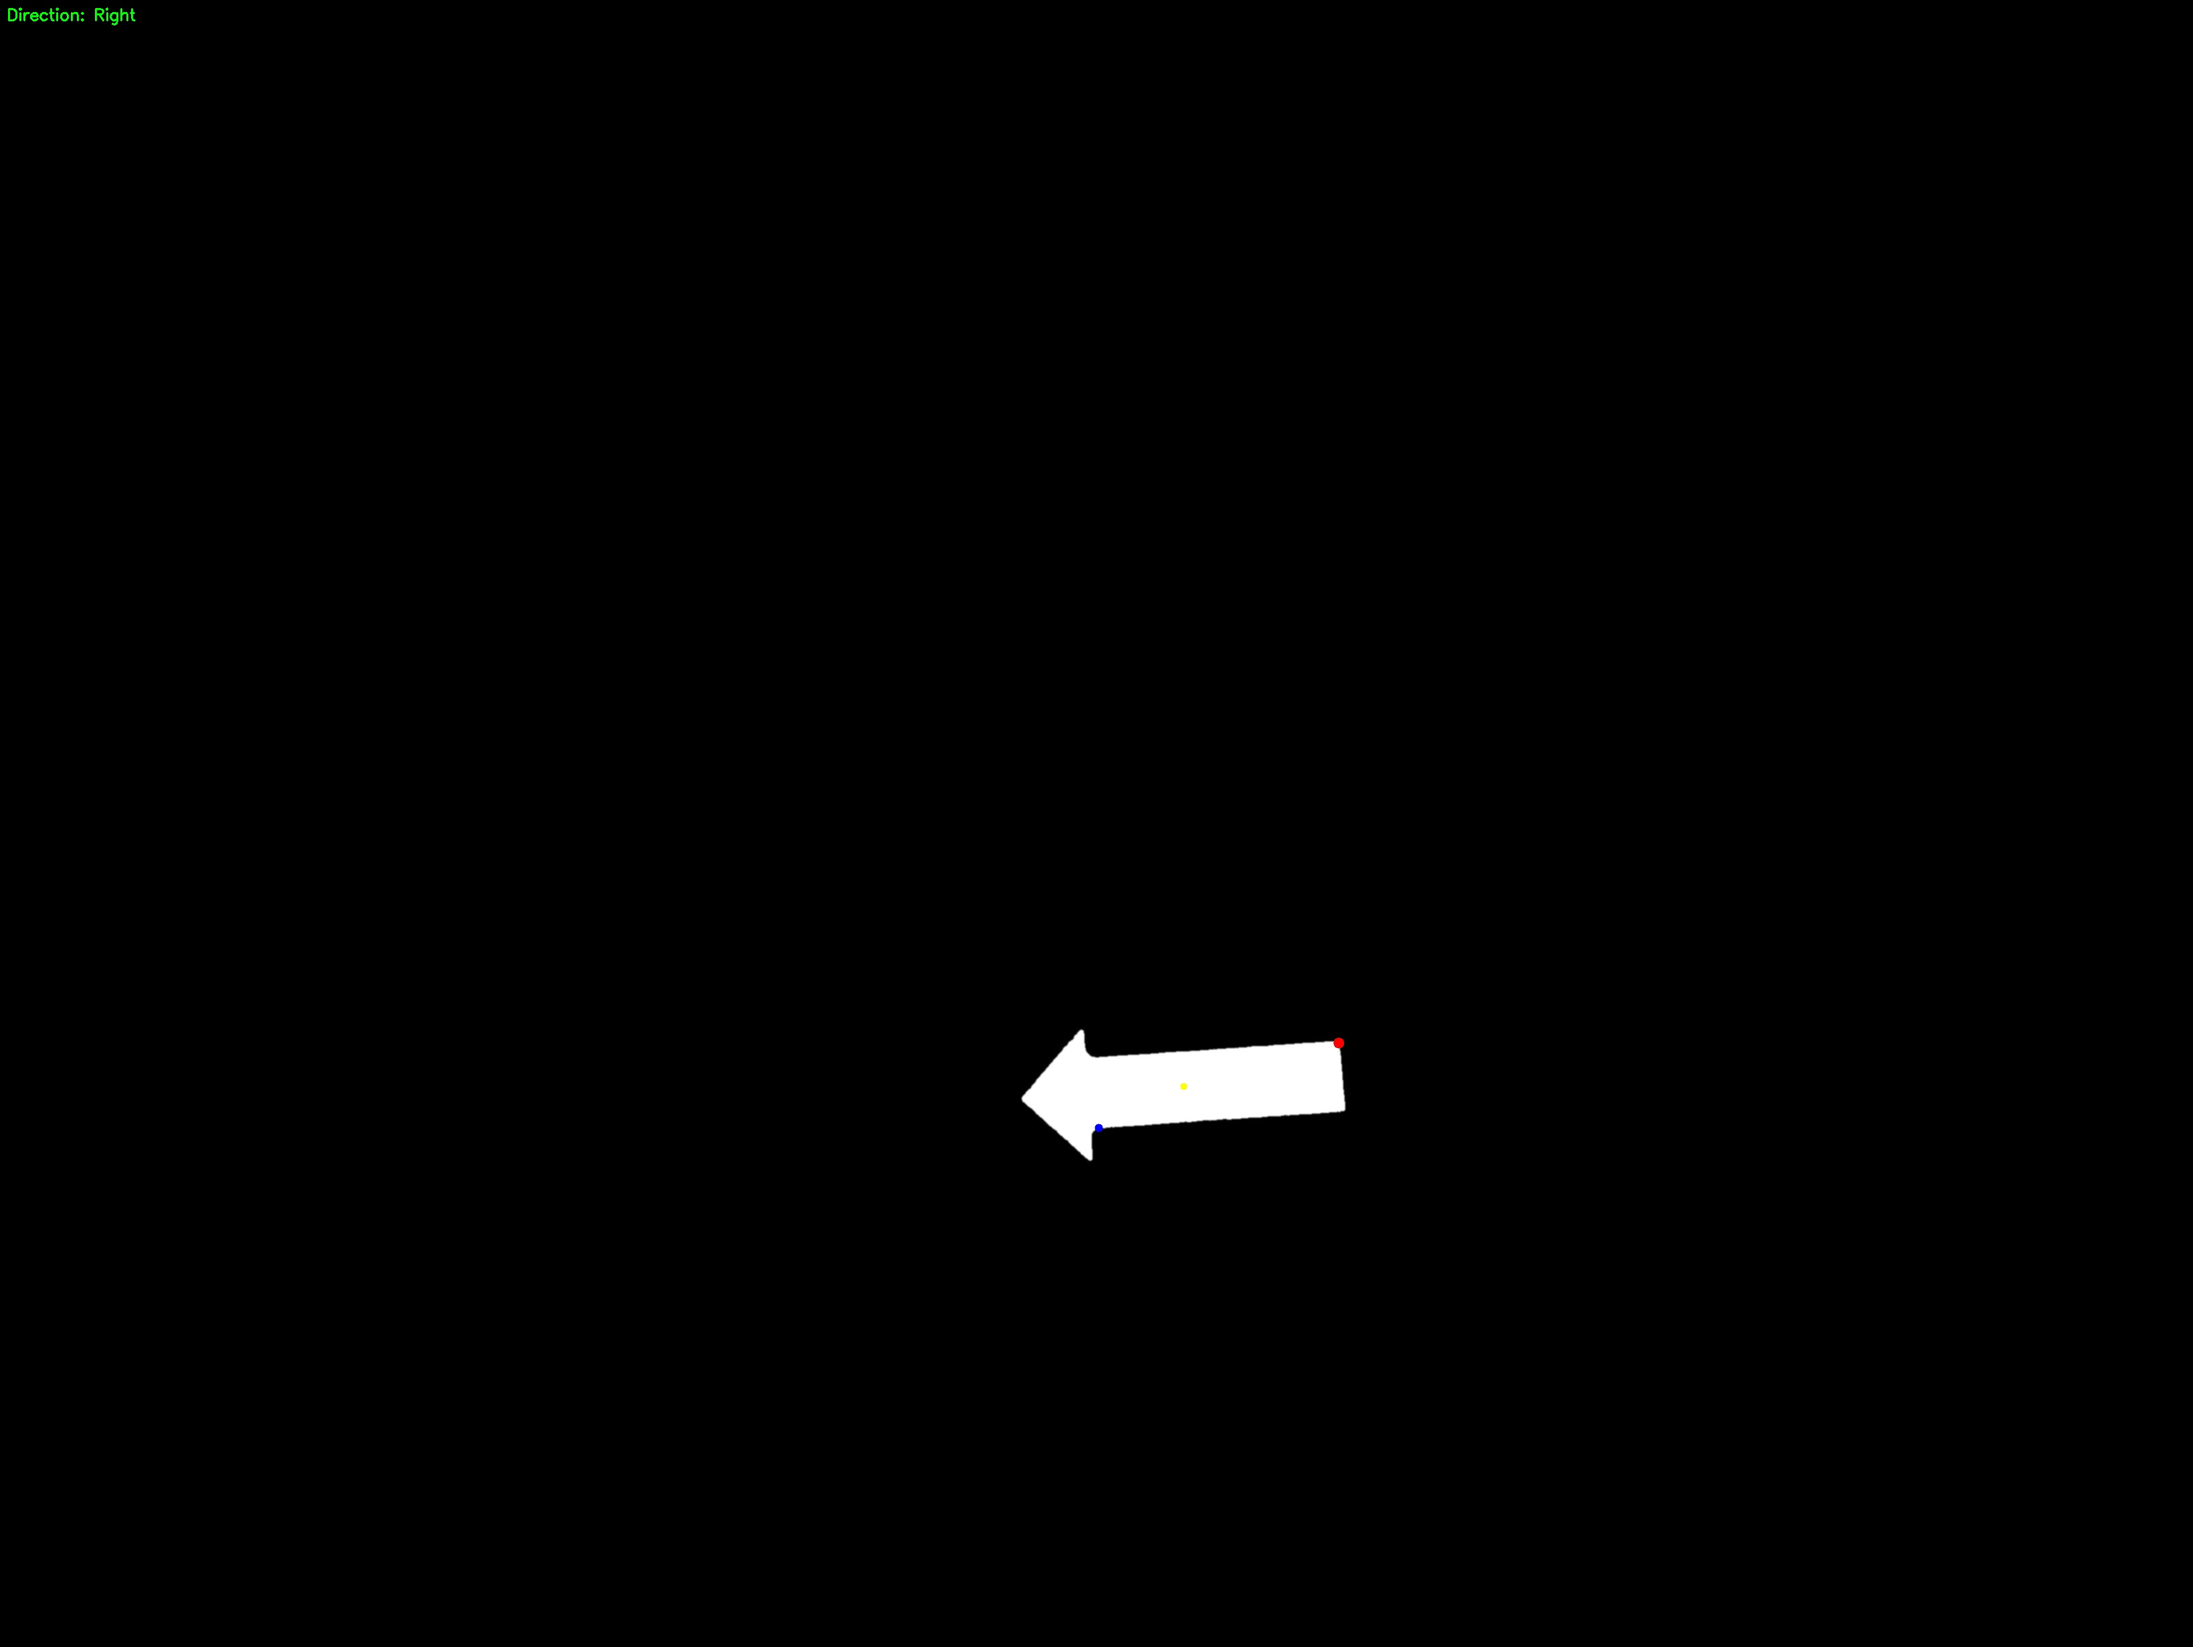
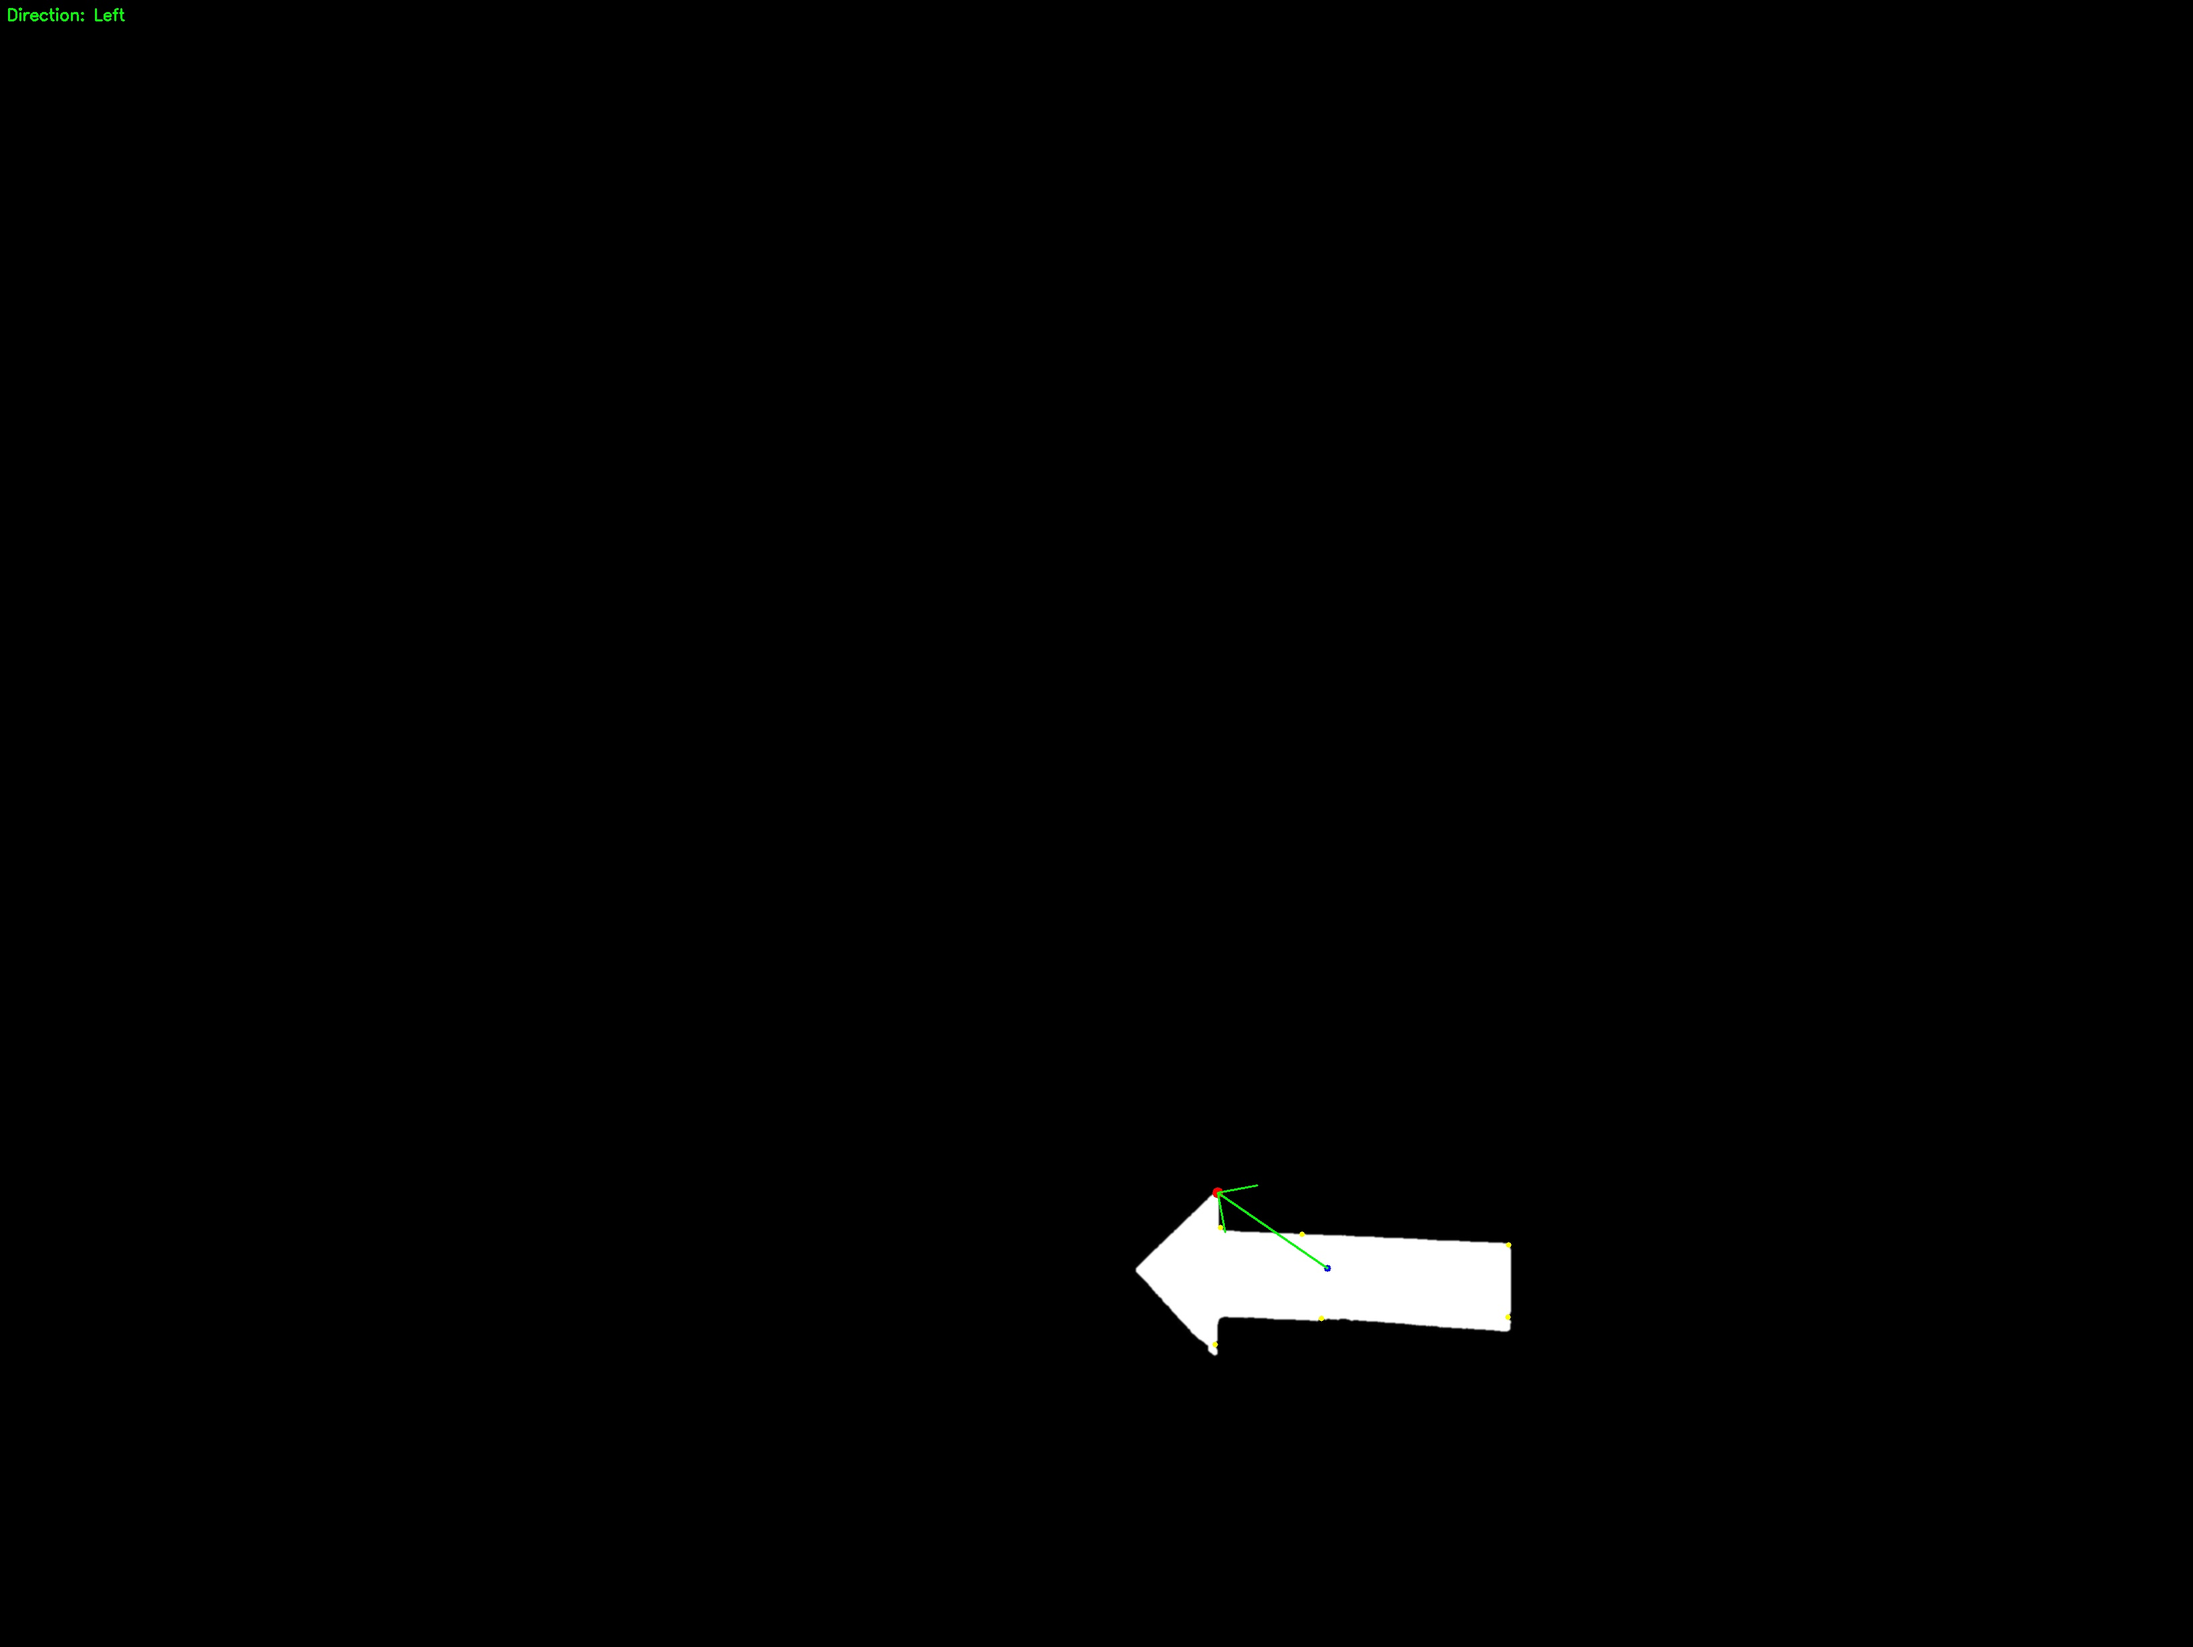
New still and updated range/corner detection

Changed region(s): [[0.4976, 0.7188, 0.7152, 0.8125], [0.4665, 0.625, 0.622, 0.7188]]

diff --git a/homework04/identify_corners.py b/homework04/identify_corners.py
@@ -1,14 +1,11 @@
-# Arrow direction detection using contour analysis and convexity defects.
-# This replaces the goodFeaturesToTrack approach, which produced unreliable
-# corner positions on blurred binary masks (only 3 of 7 corners detected).
+# Corner detection on blurred_mask.jpg using cv2.goodFeaturesToTrack.
 #
 # How it works:
-#   1. Threshold the blurred mask back to a clean binary image
-#   2. Find the arrow contour with findContours
-#   3. Compute convexity defects — the deep "armpit" indentations where
-#      the arrowhead widens from the shaft are the unique structural signature
-#      of an arrow shape
-#   4. The tip is the convex-hull point farthest from the deepest notch
+#   1. Detect up to 7 corners with goodFeaturesToTrack (Shi-Tomasi)
+#   2. Sort corners by angle around their centroid to form a polygon ordering
+#   3. Find the corner with the SMALLEST interior angle - the arrowhead tip is
+#      always the most acute (pointy) vertex, regardless of arrow length
+#   4. Direction is the vector from the centroid to the identified tip
 
 import cv2
 import numpy as np
@@ -17,52 +14,62 @@ img = cv2.imread('blurred_mask.jpg', cv2.IMREAD_GRAYSCALE)
 if img is None:
 	raise FileNotFoundError('blurred_mask.jpg not found in the current directory.')
 
-# Re-threshold to clean binary (blur may have created gray pixels)
-_, thresh = cv2.threshold(img, 127, 255, cv2.THRESH_BINARY)
+# Detect corners (Shi-Tomasi)
+# maxCorners=7: an arrow has up to 7 geometric corners
+# qualityLevel=0.05: more selective than 0.01 - avoids spurious noise corners
+# minDistance=30: prevents merging nearby true corners
+corners = cv2.goodFeaturesToTrack(img, maxCorners=7, qualityLevel=0.05, minDistance=30)
 
-# Find contours and take the largest one (the arrow)
-cnts, _ = cv2.findContours(thresh, cv2.RETR_EXTERNAL, cv2.CHAIN_APPROX_SIMPLE)
-if not cnts:
-	print('No contours detected.')
+if corners is None or len(corners) < 3:
+	print('Not enough corners detected.')
 	exit()
 
-cnt = max(cnts, key=cv2.contourArea)
+corners = np.int0(corners)
+pts = corners.reshape(-1, 2).astype(float)
 
-# Convex hull (as indices, required for convexityDefects)
-hull_idx = cv2.convexHull(cnt, returnPoints=False)
-defects  = cv2.convexityDefects(cnt, hull_idx)
+# Centroid of all detected corners
+cx, cy = pts.mean(axis=0)
 
-if defects is None:
-	print('No convexity defects found — arrow shape may be too simple or mask is noisy.')
-	exit()
+# Sort corners by polar angle around the centroid so they form a polygon order
+polar_angles = np.arctan2(pts[:, 1] - cy, pts[:, 0] - cx)
+pts = pts[np.argsort(polar_angles)]
+n = len(pts)
 
-# The deepest defect is the notch (the armpit between shaft and arrowhead)
-deepest  = max(defects[:, 0], key=lambda d: d[3])
-notch_pt = tuple(cnt[deepest[2]][0])
+# Tip = corner with the smallest interior angle in the sorted polygon
+# The arrowhead creates the sharpest angle; the tail corners are ~90 degrees
+min_angle = float('inf')
+tip_idx = 0
+for i in range(n):
+	v1 = pts[(i-1) % n] - pts[i]
+	v2 = pts[(i+1) % n] - pts[i]
+	denom = np.linalg.norm(v1) * np.linalg.norm(v2)
+	if denom < 1e-8:
+		continue
+	angle = np.arccos(np.clip(np.dot(v1, v2) / denom, -1, 1))
+	if angle < min_angle:
+		min_angle = angle
+		tip_idx = i
 
-# The tip is the hull point farthest from the notch
-hull_pts = cv2.convexHull(cnt)  # shape (M, 1, 2) — actual coordinates
-tip = max(hull_pts,
-          key=lambda p: np.linalg.norm(np.array(p[0]) - np.array(notch_pt)))[0]
+tip = pts[tip_idx].astype(int)
+centroid = np.array([int(cx), int(cy)])
 
-# Direction: vector from contour centroid to tip
-M  = cv2.moments(cnt)
-cx = int(M['m10'] / M['m00'])
-cy = int(M['m01'] / M['m00'])
-vec   = tip.astype(float) - np.array([cx, cy], dtype=float)
-angle = np.degrees(np.arctan2(vec[1], vec[0]))
+# Direction: vector from centroid to tip
+vec   = pts[tip_idx] - np.array([cx, cy])
+angle_deg = np.degrees(np.arctan2(vec[1], vec[0]))
 
-if   -45  <= angle <  45:  direction = "Right"
-elif  45  <= angle < 135:  direction = "Down"
-elif angle >= 135 or angle < -135: direction = "Left"
-else:                      direction = "Up"
+if   -45  <= angle_deg <  45:  direction = "Right"
+elif  45  <= angle_deg < 135:  direction = "Down"
+elif angle_deg >= 135 or angle_deg < -135: direction = "Left"
+else:                          direction = "Up"
 
 # Visualize
 img_color = cv2.cvtColor(img, cv2.COLOR_GRAY2BGR)
-cv2.circle(img_color, notch_pt,   6, (255,   0,   0), -1)  # blue   = notch
-cv2.circle(img_color, tuple(tip), 8, (  0,   0, 255), -1)  # red    = tip
-cv2.circle(img_color, (cx, cy),   5, (  0, 255, 255), -1)  # yellow = centroid
+for pt in pts.astype(int):
+	cv2.circle(img_color, tuple(pt), 4, (0, 255, 255), -1)    # yellow = all corners
+cv2.circle(img_color, tuple(tip),      8, (0,   0, 255), -1)  # red    = tip
+cv2.circle(img_color, tuple(centroid), 5, (255, 0,   0), -1)  # blue   = centroid
+cv2.arrowedLine(img_color, tuple(centroid), tuple(tip), (0, 255, 0), 2, tipLength=0.3)
 cv2.putText(img_color, f'Direction: {direction}',
             (10, 30), cv2.FONT_HERSHEY_SIMPLEX, 0.8, (0, 255, 0), 2)
 cv2.imwrite('corners_detected.jpg', img_color)
-print(f'Direction: {direction}  |  tip={tuple(tip)}  notch={notch_pt}')
+print(f'Direction: {direction}  |  tip={tuple(tip)}  corners detected={n}')

diff --git a/homework04/convert_reference.py b/homework04/convert_reference.py
@@ -21,7 +21,7 @@ black_canvas[:] = 0
 # lower_green = (25, 50, 50)
 # upper_green = (95, 255, 255)
 
-lower_green = (70, 90, 150)
+lower_green = (60, 90, 150)
 upper_green = (80, 255, 255)
 
 # Set pixels within the green range to white on the black canvas
